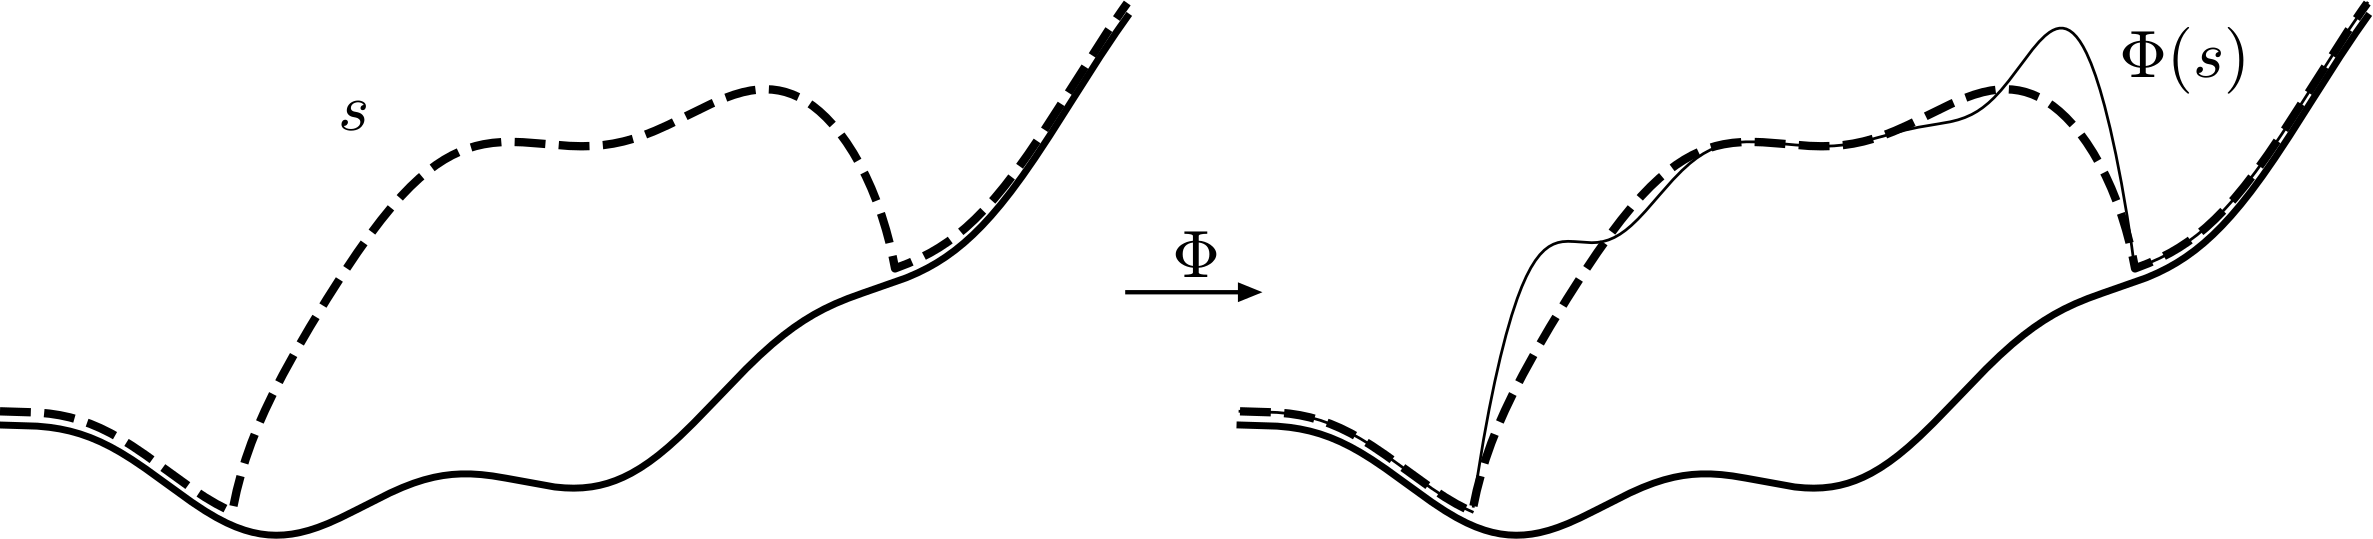
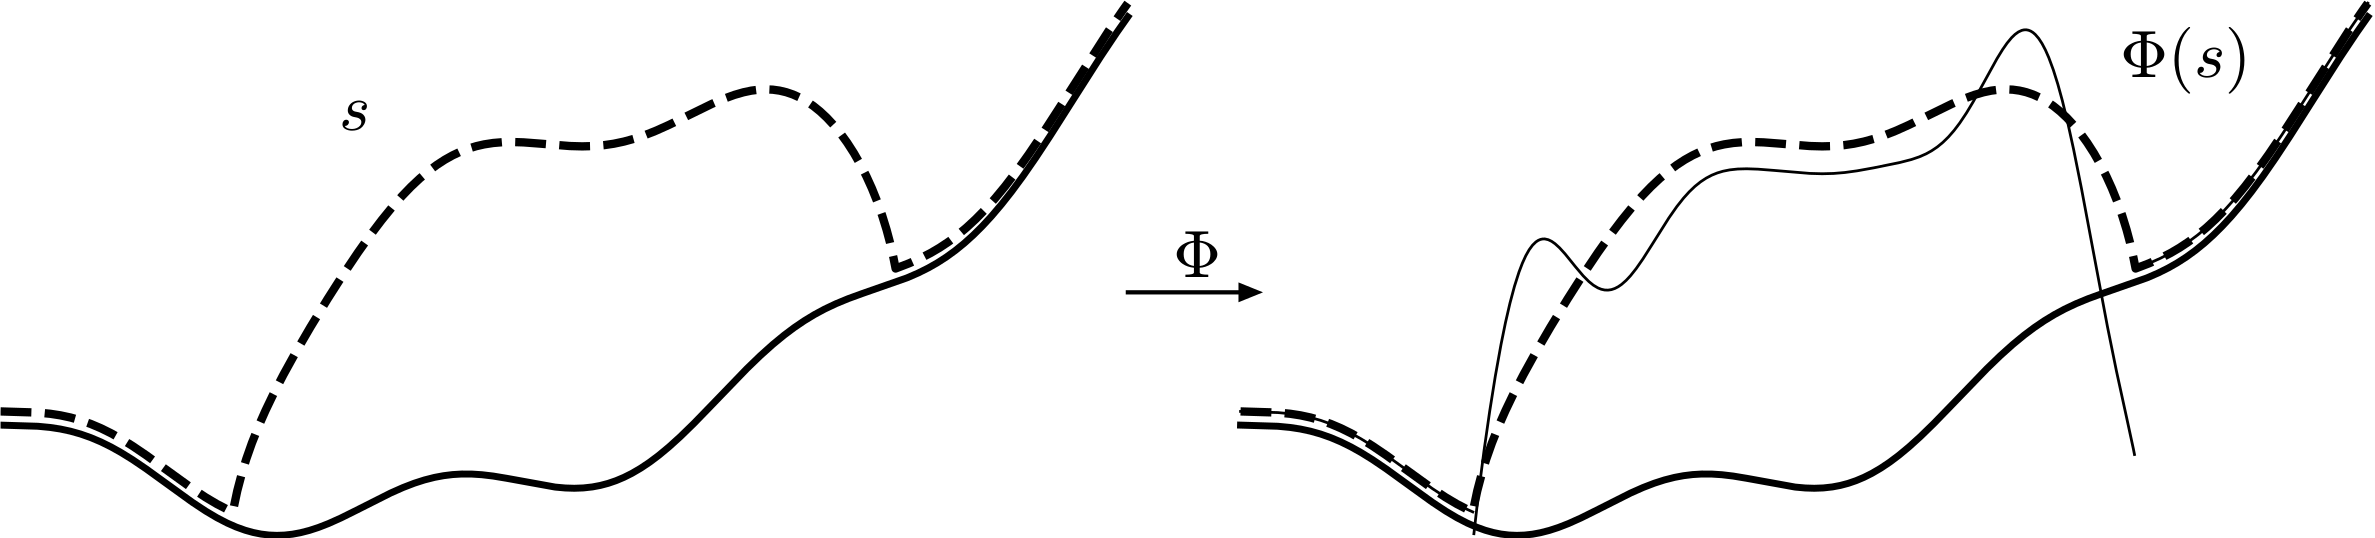
Work on talk.

diff --git a/talk/talk.tex b/talk/talk.tex
@@ -79,7 +79,7 @@
 \end{frame}
 
 
-\begin{frame}{the steady ice geometry problem (SIGP)}
+\begin{frame}{the ice geometry problem (IGP)}
 
 \vspace{-2mm}
 \begin{center}
@@ -88,17 +88,14 @@
 
 \vspace{-1mm}
 \begin{itemize}
-\item a glacier which is in balance with its climate
-    \begin{itemize}
-    \item the simplest such problem (grounded, nonsliding, isothermal)
-    \item re~\emph{steady}: solve this and you can handle implicit steps too
-    \end{itemize}
-\item steady data given on fixed $\Omega \subset \RR^2$:
+\item glacier geometry which evolves according to climate
+\item take simplest such problem (grounded, nonsliding, isothermal)
+\item for simplicity, assume time-independent data on fixed $\Omega \subset \RR^2$:
     \begin{itemize}
     \item climatic mass balance $a(x,y)$ \hfill $\gets$ \emph{$a>0$ for snowing}
     \item bed elevation $b(x,y)$
     \end{itemize}
-\item determine: surface elevation $s(x,y)$ on $\Omega$, domain $\Lambda_s \subset \RR^3$
+\item \emph{to compute}: surface elevation $s$ on $\Omega$ and icy domain $\Lambda_s \subset \RR^3$
 \end{itemize}
 \end{frame}
 
@@ -106,36 +103,41 @@
 \begin{frame}{surface kinematical equation}
 
 \begin{itemize}
-\item glaciers flow, so there is an equation for the surface elevation
+\item glaciers flow
+\item $\therefore$ must solve an equation for the surface elevation
 \item the surface kinematical equation (SKE) holds \emph{on} the ice
-    $$\bu|_s \cdot \bn_s + a=0 \qquad \text{\emph{steady state}}$$
+\begin{align*}
+\frac{\partial s}{\partial t} - \bu|_s \cdot \bn_s &= a & &\text{\emph{evolving}} \\
+\bu|_s \cdot \bn_s + a &= 0 & &\text{\emph{steady state}}
+\end{align*}
 
     \begin{itemize}
     \item $\bn_s = \left<-s_x,-s_y,1\right>$  \, is an upward normal to the ice surface
+    \item \emph{not} on the ice: $a\le 0$ for $t>0$ (or in steady state)
     \end{itemize}
-\item \emph{off} the ice we know $a\le 0$ in steady state
 \end{itemize}
 
 \bigskip
 \begin{columns}
-    \column{0.6\textwidth}
+    \column{0.55\textwidth}
         \begin{itemize}
-        \item for all of this talk:
+        \item assumed for this talk:
             \begin{itemize}
-            \item $s$ is assumed to be well-defined (no overhangs)
-            \item $s=b$ where ice is not present, so $s$ is defined on all of $\Omega$
+            \item $s$ well-defined (no overhangs)
+            \item $s=b$ where ice is not present
+            \item $s$ is defined on all of $\Omega$
             \end{itemize}
         \end{itemize}
-    \column{0.4\textwidth}
-        \includegraphics[width=1.05\textwidth]{figs/simpledomain.png}
+    \column{0.45\textwidth}
+        \includegraphics[width=1.0\textwidth]{figs/simpledomain.png}
 \end{columns}
 \end{frame}
 
 
-\begin{frame}{SIGP strong form}
+\begin{frame}{steady IGP strong form}
 
 \begin{itemize}
-\item the SIGP free-boundary problem determines $s$ on $\Omega$
+\item the steady IGP free-boundary problem for $s(x,y)$ on $\Omega$
 \item it is a \alert{nonlinear complementarity problem (NCP) for $s$ which is coupled to a Stokes problem for $\bu,p$:}
 
 \vspace{-5mm}
@@ -169,59 +171,94 @@ s - b &\ge 0 && \text{on $\Omega$} & \tikzmark{ncptop} \\
 \end{frame}
 
 
+\begin{frame}{\alert{implicit} IGP strong form}
+
+\begin{itemize}
+\item the evolving IGP free-boundary problem for $s(x,y,t)$ on $\Omega \times [0,T]$
+\item consider one step of backward Euler scheme
+    \begin{itemize}
+    \item solve for $s,\bu,p$ at new time $t^\ell$
+    \item $\frac{\partial s}{\partial t} \approx \frac{s^\ell-s^{\ell-1}}{\Delta t}$, and write $s$ for $s^\ell$
+    \end{itemize}
+\item again: NCP for $s$ coupled to a Stokes problem for $\bu,p$:
+
+\vspace{-5mm}
+
+\begin{align*}
+s - b &\ge 0 && \text{on $\Omega$} \\
+\alert{s - s^{\ell-1} - \Delta t\, \bu|_s \cdot \bn_s - \Delta t\, a} &\ge 0 && \text{''} \\
+(s - b) (\alert{s - s^{\ell-1} - \Delta t\, \bu|_s \cdot \bn_s - \Delta t\, a}) &= 0 && \text{''} \\
+- \nabla \cdot \left(2 \nu_\eps\, D\bu\right) + \nabla p - \rhoi \mathbf{g} &= \bzero && \text{on $\Lambda_s$} \\
+\nabla \cdot \bu &= 0 && \text{''} \\
+\bu &= \bzero && \text{on $\Gamma_0$} \\
+\left(2 \nu_\eps D\bu - pI\right) \bn &= \bzero && \text{on $\partial \Lambda_s \setminus \Gamma_0$}
+\end{align*}
+
+    \begin{itemize}
+    \item \alert{pretty similar \dots mostly suffices to consider steady IGP}
+    \end{itemize}
+\end{itemize}
+\end{frame}
+
+
 \begin{frame}{existing ice sheet models}
 
 \begin{itemize}
-\item almost no one is solving the SIGP directly
+\item almost no one is solving the implicit IGP
     \begin{itemize}
-    \item or doing implicit time-stepping (\emph{basically the same as SIGP})
-    \item except Wirbel \& Jarosch \cite{WirbelJarosch2020} (\emph{semi-coupled, nonscalable, artificial ice layer})
+    \item except Brinkerhoff et al (2017) (\emph{upwinding limits time-step?})
+    \item and Wirbel \& Jarosch (2020) (\emph{semi-coupled, artificial ice layer})
+    \item neither scalable (\emph{single level})
     \end{itemize}
 \item what are people doing instead?
     \begin{itemize}
     \item \alert{explicit time-stepping with $s \ge b$ enforced by truncation}
-    \item mostly with shallow approximations, e.g.~PISM run below
-    \end{itemize}
-\end{itemize}
+    \item often with shallow approximations, e.g.~PISM run below
 
 \medskip
 \begin{columns}
-    \column{0.8\textwidth}
-        \hfill \includegraphics[width=0.8\textwidth]{figs/seguinot.png}
-    \column{0.2\textwidth}
-        \scriptsize \emph{show clip of Alpine run by Julien Seguinot}
+    \column{0.7\textwidth}
+        \includegraphics[width=0.8\textwidth]{figs/seguinot.png}
+    \column{0.3\textwidth}
+        \scriptsize \emph{by Julien Seguinot}
 \end{columns}
+
+\medskip
+    \item my goal is to do better
+    \end{itemize}
+\end{itemize}
 \end{frame}
 
 
 \begin{frame}{coupling via operator}
 
-\begin{block}{definition: ice dynamics operator}
+\begin{block}{ice dynamics operator}
 $\Phi : s \mapsto - \bus \cdot \bn_s$
 
 \vspace{-3mm}
 
-\hfill \includegraphics[width=0.75\textwidth]{figs/idoaction.png}
+\hfill \includegraphics[width=0.7\textwidth]{figs/idoaction.png}
 \end{block}
 
 \begin{itemize}
 \item to compute $\Phi(s)$: build $\Lambda_s$, solve weak-form Stokes problem
     $$F_{\Lambda_s}(\bu,p)[\bv,q] = \int_{\Lambda_s} 2 \nu_\eps D\bu : D\bv - p \Div\bv - (\Div\bu) q - \rhoi \bg \cdot \bv\,d\bx = 0,$$
 extract trace $\bus$, then extend $\Phi(s) = -\bus \cdot \bn_s$ by zero to $\Omega$
-\item regarding $F_{\Lambda_s}(\bu,p) = 0$:
+\item regarding Stokes problem for fixed geometry:
     \begin{itemize}
-    \item well-posed over $W_0^{1,\pp}(\Lambda_s)^3 \times L^\qq(\Lambda_s)$ (Jouvet \& Rappaz \cite{JouvetRappaz2011})
-    \item optimal solver exists (Isaac et al \cite{IsaacStadlerGhattas2015})
+    \item well-posed over $W_0^{1,\pp}(\Lambda_s)^3 \times L^\qq(\Lambda_s)$ (Jouvet \& Rappaz 2011)
+    \item optimal solver exists (Isaac et al 2015)
     \end{itemize}
+\item $\therefore$ \, $\phi(s)$ is well-defined if $s$ is piecewise $C^1$
 \end{itemize}
 
 \end{frame}
 
 
-\begin{frame}{SIGP weak form is a variational inequality}
+\begin{frame}{IGP weak form is a variational inequality}
 
 \begin{itemize}
-\item using $\Phi$ gives a cleaner NCP over $\Omega$:
+\item using $\Phi$ gives a cleaner NCP over $\Omega$ for steady IGP:
 \begin{align*}
 s - b &\ge 0 \\
 \Phi(s) - a &\ge 0 \\
@@ -230,37 +267,67 @@ s - b &\ge 0 \\
 
 \item NCP (strong form) $\leftrightarrow$ VI (weak form)
 
-\begin{block}{SIGP weak form}
+\begin{block}{steady IGP weak form}
 find admissible $s \in \mathcal{K} = \{r \ge b\} \subset W^{1,\qq}(\Omega)$ so that
-    $$\hspace{10mm} F(s)[r - s] \ge \ip{a}{r-s}$$
-for all $r \in \mathcal{K}$, where $F(s)[w] = \int_\Omega \Phi(s)\, w \,dx dy$
+    $$\ip{\Phi(s)-a}{r-s} \ge 0$$
+for all $r \in \mathcal{K}$
 \end{block}
 
 \item well-posedness is completely open
     \begin{itemize}
-    \item but existence holds for SIA version (Jouvet \& Bueler \cite{JouvetBueler2012})
+    \item but existence holds for SIA version (Jouvet \& Bueler, 2012)
     \end{itemize}
 
 \end{itemize}
-
 \end{frame}
 
 
-\begin{frame}{goal: robust and optimal SIGP solver}
+\begin{frame}{what kind of beast is $\Phi$?}
+
+\begin{center}
+\mbox{\includegraphics[width=0.7\textwidth]{figs/idoaction.png} \hfill \includegraphics[width=0.2\textwidth]{figs/elephant.png}}
+\end{center}
+
+\begin{itemize}
+\small
+\item $\Phi : \mathcal{K} \subset W^{1,\qq}(\Omega) \to W^{-1,\pp}(\Omega)$ where $\qq=4$ and $\pp=4/3$
+\item the Stokes stress balance is nonlocal so $\Phi$ is ``dense''
+    \begin{itemize}
+    \item $\Phi$ is some kind of integral operator? (\emph{convolve with Stokeslets})
+    \item $\Phi$ is short range? (\emph{concentrated near the diagonal})
+    \end{itemize}
+\item $\Phi \approx \Phi_{\text{SIA}}$ for shallow glaciers, a differential operator:
+    $$\Phi_{\text{SIA}}(s) = - \frac{\gamma}{\qq} (s-b)^{\qq} |\grad_2 s|^{\qq} - \grad_2 \cdot\left[\frac{\gamma}{\qq+1} (s-b)^{\qq+1} |\grad_2 s|^{\qq-2} \grad_2 s\right]$$
+
+    \begin{itemize}
+    \item $\Phi$ is diffusive in the large!
+    \item $\Phi$ is degenerate at the ice margin!
+    \end{itemize}
+\item yet common to say $\Phi$ is hyperbolic because SKE is transport equation for thickness: $H_t + \overline{\bu}\, \grad H = a$
+\end{itemize}
+\end{frame}
+
+
+\begin{frame}{goal: robust and optimal IGP solver}
 
 \begin{block}{numerical goal}
-Given triangulation $\mathcal{T}$ of $\Omega$ and $P_1$ space $\mathcal{V}^h \subset W^{1,\qq}(\Omega)$.  Use the numerical solution of the Stokes problem $F_{\Lambda_{s^h}}(\bu^h,p^h)=0$ to evaluate $\Phi(s^h)=-\bu|_{s^h}\cdot\bn_{s^h}$.  Solve VI for $s^h \in \mathcal{K}^h$:
+given triangulation $\mathcal{T}$ of $\Omega$ and $P_1$ space $\mathcal{V}^h \subset W^{1,\qq}(\Omega)$, and convex set $\mathcal{K}^h = \{r^h \ge b^h\} \subset \mathcal{V}^h$, solve VI for $s^h \in \mathcal{K}^h$:
 
-$$F(s^h)[r^h - s^h] \ge \ip{a}{r^h-s^h} \qquad \text{for all $r^h \in \mathcal{K}^h$}$$
+$$\ip{\Phi^h(s^h) - a}{r^h - s^h} \ge 0 \qquad \text{for all $r^h \in \mathcal{K}^h$}$$
 \end{block}
 
 \begin{itemize}
+\item[]
+    \begin{itemize}
+    \item $P_1$ because low regularity at free boundary
+    \item uses numerical solution of Stokes problem $F_{\Lambda_{s^h}}(\bu^h,p^h)=0$ to evaluate $\Phi^h(s^h)=-\bu|_{s^h}\cdot\bn_{s^h}$
+    \end{itemize}
 \item seeking a solver which is:
     \begin{itemize}
     \item \alert{robust}
-    \item \alert{optimal} over $m$ degrees of freedom in $\mathcal{V}^h$: work is $O(m)$
+    \item \alert{optimal} over $m$ degrees of freedom in $\mathcal{V}^h$ 
         \begin{itemize}
-        \item[{\color{black} $\circ$}] optimal requires multigrid
+        \item[{\color{black} $\circ$}] optimal means work is $O(m)$ \dots requires multigrid
         \end{itemize}
     \item<2> \emph{for now these are aspirations \dots}
     \end{itemize}
@@ -269,37 +336,34 @@ $$F(s^h)[r^h - s^h] \ge \ip{a}{r^h-s^h} \qquad \text{for all $r^h \in \mathcal{K
 
 
 
-\begin{frame}{what thing is $\Phi$?}
-
-\begin{block}{SIGP weak form}
-find $s \in \mathcal{K}$ so $F(s)[r - s] \ge \ip{a}{r-s}$ for all $r \in \mathcal{K}$
-\end{block}
+\begin{frame}{Stokes on an extruded mesh}
 
 \begin{itemize}
-\item $F(s)[w] = \int_\Omega \Phi(s)\, w$ is dual of $\Phi(s)=-\bus\cdot\bn_s$
-\item $\Phi : \mathcal{K} \subset W^{1,\qq}(\Omega) \to W^{-1,\pp}(\Omega)$
-\item the Stokes stress balance is nonlocal so $\Phi$ is ``dense''
-    \begin{itemize}
-    \item some kind of integral operator (\emph{convolve with bdry Stokeslets})
-    \item $\Phi$ is concentrated near the diagonal, i.e.~short range?
-    \end{itemize}
-\item $\Phi \approx \Phi_{\text{SIA}}$ for shallow glaciers, a differential operator:
-\small
-    $$\Phi_{\text{SIA}}(s) = - \frac{\gamma}{\qq} (s-b)^{\qq} |\grad_2 s|^{\qq} - \grad_2 \cdot\left[\frac{\gamma}{\qq+1} (s-b)^{\qq+1} |\grad_2 s|^{\qq-2} \grad_2 s\right]$$
-\normalsize
+\item FIXME
 \end{itemize}
+
+\includegraphics[width=0.8\textwidth]{figs/extruded.png}
 \end{frame}
 
 
 \begin{frame}{multilevel constraint decomposition}
 
 \begin{itemize}
-\item FIXME \cite{BuelerMitchell2022}
+\item FIXME
 \end{itemize}
 
-\includegraphics[width=0.8\textwidth]{figs/extruded.png}
+\includegraphics[width=0.5\textwidth]{figs/decompclassical.png}
 
 \input{tikz/vcycle.tex}
+\end{frame}
+
+
+
+\begin{frame}{smoothers}
+
+\begin{itemize}
+\item FIXME
+\end{itemize}
 \end{frame}
 
 
@@ -321,7 +385,7 @@ find $s \in \mathcal{K}$ so $F(s)[r - s] \ge \ip{a}{r-s}$ for all $r \in \mathca
 
 \appendix
 
-\begin{frame}{References}
+\begin{frame}{Some references}
 %\bibliography{../paper/msg.bib}
 %\bibliographystyle{plain}
 
@@ -329,14 +393,13 @@ find $s \in \mathcal{K}$ so $F(s)[r - s] \ge \ip{a}{r-s}$ for all $r \in \mathca
 \bibitem{BuelerMitchell2022}
 E.~Bueler and L.~Mitchell. \textbf{Multilevel computation of glacier geometry from Stokes dynamics.} in preparation
 
+\hrulefill
+
+\bibitem{Brinkerhoffetal2017}
+D.~Brinkerhoff, M.~Truffer, and A.~Aschwanden. \textbf{Sediment transport drives tidewater glacier periodicity.} {\em Nature Communications}, 8(1):1--8, 2017.
+
 \bibitem{IsaacStadlerGhattas2015}
 T.~Isaac, G.~Stadler, and O.~Ghattas.  \textbf{Solution of nonlinear Stokes equations \dots with application to ice sheet dynamics.} {\em SIAM J. Sci. Comput.}, 37(6):B804--B833, 2015.
-
-\bibitem{JouvetBueler2012}
-G.~Jouvet and E.~Bueler. \textbf{Steady, shallow ice sheets as obstacle problems: well-posedness and finite element approximation.} {\em SIAM J. Appl. Math.}, 72(4):1292--1314, 2012.
-
-\bibitem{JouvetRappaz2011}
-G.~Jouvet and J.~Rappaz. \textbf{Analysis and finite element approximation of a nonlinear stationary Stokes problem arising in glaciology.} {\em Adv. Numer. Anal.}, 2011.
 
 \bibitem{WirbelJarosch2020}
 A.~Wirbel and A.~H. Jarosch. \textbf{Inequality-constrained free-surface evolution in a full {S}tokes ice flow model \dots} {\em Geosci. Model Dev.}, 13(12):6425--6445, 2020.

diff --git a/talk/tikz/vcycle.tex b/talk/tikz/vcycle.tex
@@ -1,4 +1,4 @@
-\begin{tikzpicture}[scale=1.0]
+\begin{tikzpicture}[scale=0.8]
   \pgfmathsetmacro\hstep{0.5}
   \pgfmathsetmacro\vstep{0.75}
   \pgfmathsetmacro\ceps{0.08}   % size of square for coarse grid
